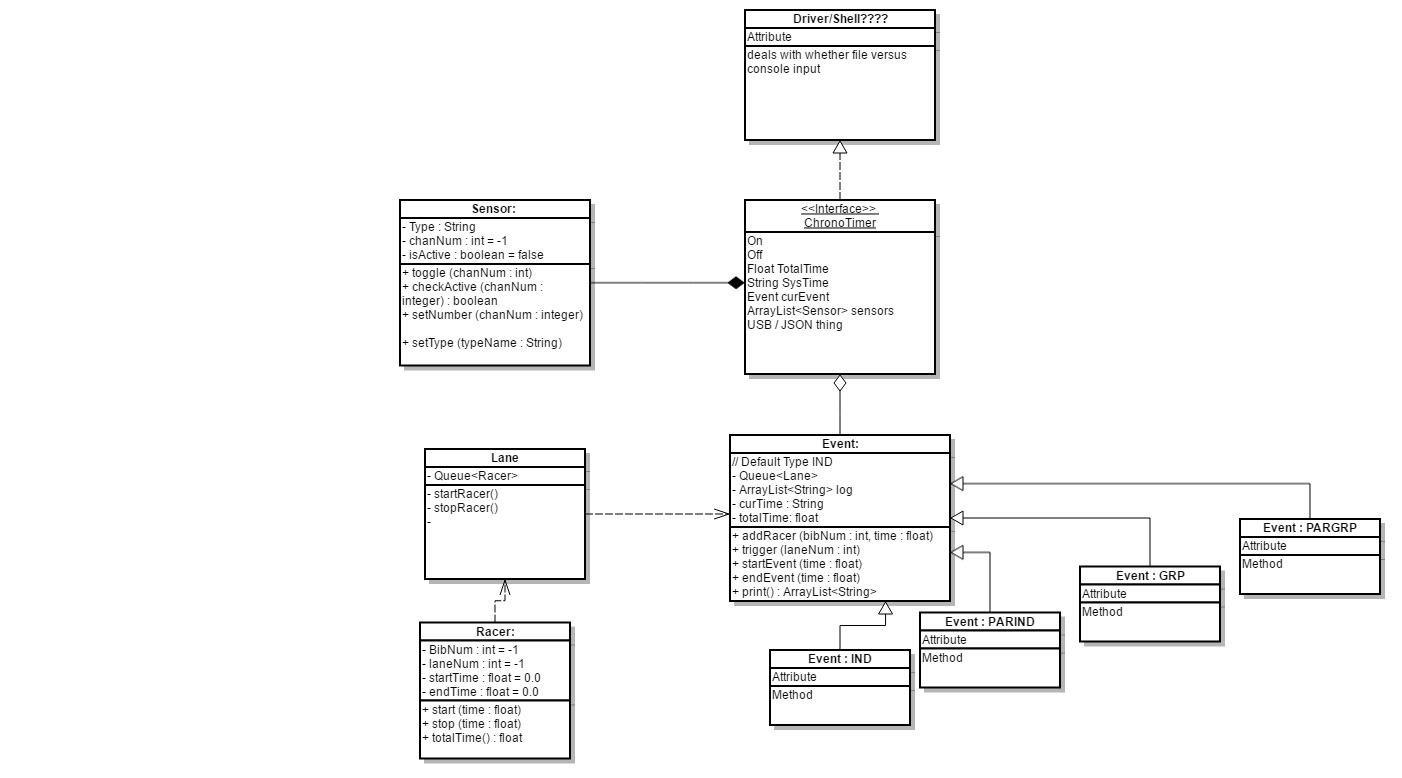
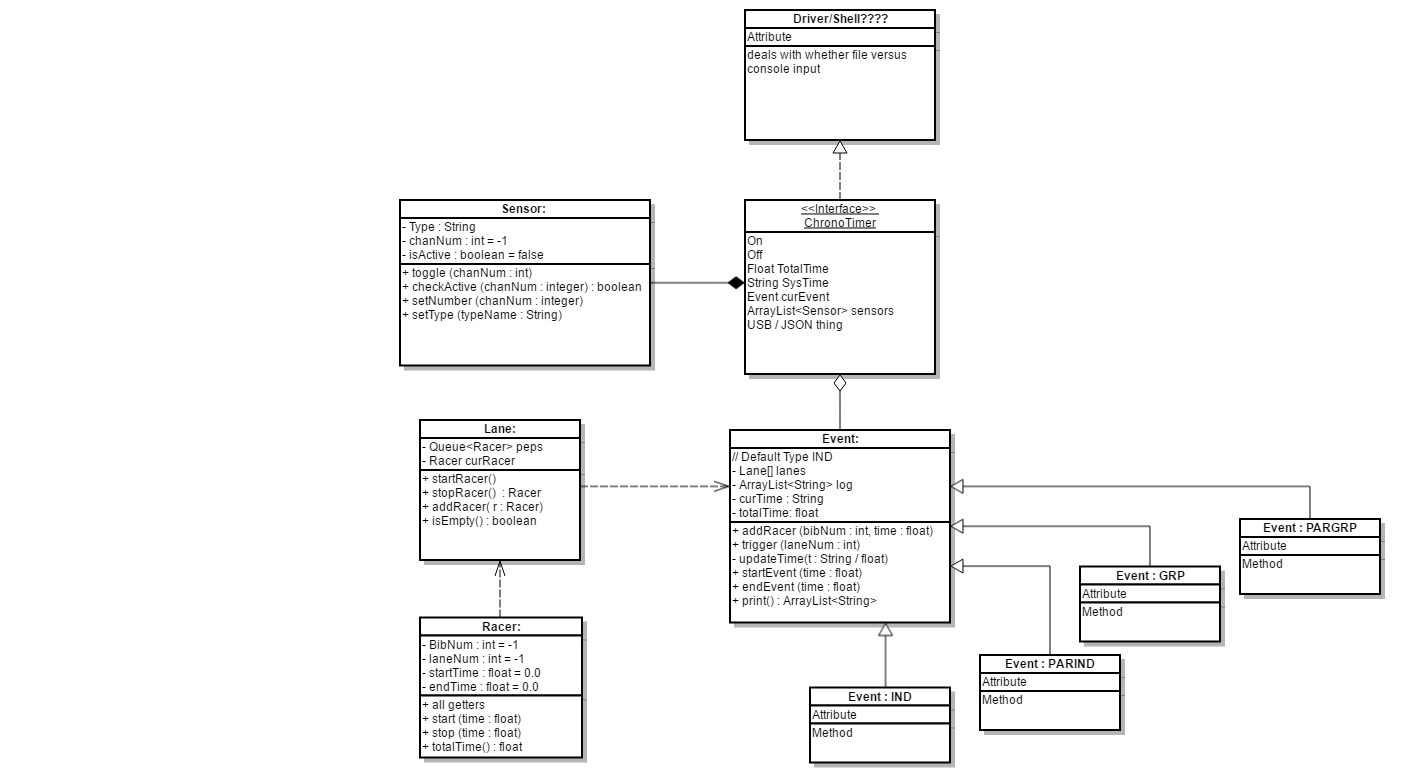
fully up to date model & Racer, lane & event now match domain despite incomplete

diff --git a/Sprint0_v2/src/Racer.java b/Sprint0_v2/src/Racer.java
@@ -5,14 +5,10 @@
  * @author Group 1
  */
 public class Racer {
-	int racerNum;
-	int laneNum;
-	int numLaps = 1;
-	float startTime;
-	float stopTime;
-	private float[] lapTimes = new float[numLaps];
-	private int lapNum = 0;
-	double totalTime;
+	private int racerNum;
+	private int laneNum;
+	private float startTime;
+	private float stopTime;
 	
 	/**
 	 * @param bibNum
@@ -26,52 +22,22 @@ public class Racer {
 	public int getBibNum(){ 
 		return racerNum; }
 	
-	public double getStartTime(){ 
+	public int getLaneNum(){
+		return laneNum;	}
+	
+	public float getStartTime(){ 
 		return startTime; }
 	
-	public void setStartTime(float st){ 
+	public void start(float st){ 
 		startTime = st; }
 	
-	public double getTotalTime(){
-		calcTotalTime();
-		return totalTime;
-	}
-	public void setNumLaps(int ls){ 
-		numLaps = ls; 
-		lapTimes = new float[numLaps];
-	}
-	public void setLapTime(float t){
-		lapTimes[lapNum] = t;
-	}
-	/**
-	 * Retrieves final lap time and subtracts
-	 * it from the start time to get the total time.  
-	 */
-	private void calcTotalTime(){
-		if(numLaps == 1){
-			lapTimes[lapTimes.length-1] = stopTime;
-		}
-		System.out.println("racer end time "+lapTimes[lapTimes.length-1]);
-		System.out.println("racer start time "+startTime);
-		float lastTime = lapTimes[lapTimes.length-1];
-		totalTime = lastTime-startTime;
-	}
-	/**
-	 * prints start on first line, each following lap time
-	 * and ends with the final lap time
-	 * @return string
-	 */
-	public String printLapTimes(){
-		String s = "Start: "+ startTime +" \n";
-		if(lapTimes.length == 1){
-			s += "Finish: " + lapTimes[0];
-		}
-		else{
-			for(int i =0; i < lapTimes.length-1; ++i){
-				s += "Lap #"+ (i+1)+": "+ lapTimes[i]+ "\n";
-			}
-			s += "Finish: " + lapTimes[lapTimes.length-1];
-		}
-		return s;
-	}
+	public float getEndTime(){
+		return stopTime;	}
+	
+	public void stop(float st){
+		stopTime = st;	}
+	
+	public float getTotalTime(){
+		return stopTime-startTime;	}
+
 }

diff --git a/Sprint0_v2/src/Event.java b/Sprint0_v2/src/Event.java
@@ -9,10 +9,10 @@ import java.util.Queue;
 public class Event {
 	//TODO
 	//lanes = array of queues?
-	Lane[] lanes;
-	ArrayList<String> log = new ArrayList<String>();
-	float totalTime = 0;
-	String curTime = "";
+	private Lane[] lanes;
+	private ArrayList<String> log = new ArrayList<String>();
+	private float totalTime = 0;
+	private String curTime = "";
 	
 	/**
 	 * create an Event object setting the current time to t

diff --git a/Sprint0_v2/src/Lane.java b/Sprint0_v2/src/Lane.java
@@ -7,17 +7,19 @@ import java.util.Queue;
  */
 public class Lane {
 	private Queue<Racer> peps = new LinkedList<Racer>();
-	Racer curRacer = null; 
+	private Racer curRacer = null; 
 	
 	
 	
 	
 	
 	public void start(float t){
-		
+		curRacer = peps.remove();
+		curRacer.start(t);
 	}
 	
 	public Racer stop(float t){
+		curRacer.stop(t);
 		return curRacer;
 	}
 	
